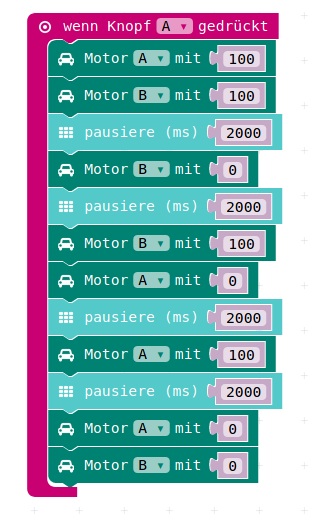
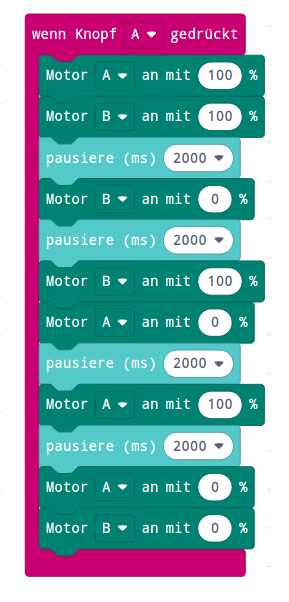
Content changes

diff --git a/_posts/2020-09-19-calliope_steuert_calliope.md b/_posts/2020-09-19-calliope_steuert_calliope.md
@@ -1,19 +1,19 @@
 ---
 layout: post
 title:  "Calliope steuert Calliope"
-date:   2020-07-19 17:08:49 +0200
-tags: calliope fernsteuerung funk
+date:   2020-09-19
+tags: calliope fernsteuerung funk beispielfahrzeug
 ---
 Der Prototyp mit Calliope soll nun mit einem anderen Calliope ferngesteuert werden.
-Hierfür nutzen wir das Funk-Modul, mit dem aus mehreren Calliopes (und auch MicroBits) eine Funkgruppe gebildet werden kann. Jeder in der Funkgruppe kann dann Daten (Text oder Zahlen) senden und empfangen.
+Hierfür nutzen wir das Funk-Modul, mit dem aus mehreren Calliopes (und auch Microbits) eine Funkgruppe gebildet werden kann. Jeder in der Funkgruppe kann dann Daten (Text oder Zahlen) senden und empfangen.
 
 Die Befehle findet man in Makecode unter "Funk", einige Befehle dann auch unter "Mehr".
 
 ## Komponenten und Aufbau
 
-Für den Robby-Prototyp haben nutzen wir zwei Calliope. Einer verbaut auf dem Fahrzeug als Empfänger für die Befehle, der weitere ist die Fernbedienung.
+Wir nutzen wir zwei Calliope. Einer ist auf dem Fahrzeug als Empfänger für die Befehl verbaut, der weitere dient als Fernbedienung.
 
-Komponenten und Aufbau des Fahrzeugs sind gleich wie im Beitrag [Erster Prototyp mit Calliope]({% post_url 2020-07-19-modell-a-calliope %})
+Komponenten und Aufbau des Fahrzeugs sind gleich wie bereits im Beitrag [Erster Prototyp mit Calliope]({% post_url 2020-09-18-beispielfahrzeug-calliope %}) beschrieben.
 
 
 ## Variante 1: Nutzung der Buttons
@@ -22,22 +22,22 @@ In der ersten Variante der Fernsteuerung soll das Fahrzeug
 * beim Drücken von A und B geradeaus fahren
 * beim Drücken von A links fahren
 * beim Drücken von B rechts fahren
-* beim Schütteln anhalten
+* beim Drehen des Displays nach unten anhalten
 
-Die Calliope-Fernbedienung nutzt folgendes Programm. Es übermittelt abhängig von der Eingabe Zahlencodes von 0 bis 2 über Funk an die Mitglieder der Funkgruppe 0:
+Die Calliope-Fernbedienung nutzt folgendes Programm. Es übermittelt abhängig von der Eingabe Zahlencodes von 0 bis 3 über Funk an die Mitglieder der Funkgruppe 0:
 
 
 ```javascript
-input.onGesture(Gesture.Shake, () => {
+input.onGesture(Gesture.ScreenDown, function () {
     radio.sendNumber(0)
 })
-input.onButtonPressed(Button.AB, () => {
-    radio.sendNumber(1)
-})
-input.onButtonPressed(Button.A, () => {
+input.onButtonPressed(Button.A, function () {
     radio.sendNumber(2)
 })
-input.onButtonPressed(Button.B, () => {
+input.onButtonPressed(Button.AB, function () {
+    radio.sendNumber(1)
+})
+input.onButtonPressed(Button.B, function () {
     radio.sendNumber(3)
 })
 radio.setGroup(0)
@@ -45,11 +45,31 @@ radio.setGroup(0)
 
 Der auf dem Fahrzeug verbaute Calliope nutzt folgendes Programm. Es reagiert auf die über Funk empfangene Daten und führt die entsprechenden Befehle zur Motorsteuerung aus.
 
+```javascript
+radio.onReceivedNumber(function (receivedNumber) {
+    if (receivedNumber == 0) {
+        motors.dualMotorPower(Motor.AB, 0)
+    }
+    if (receivedNumber == 1) {
+        motors.dualMotorPower(Motor.AB, 100)
+    }
+    if (receivedNumber == 2) {
+        motors.dualMotorPower(Motor.A, 100)
+        motors.dualMotorPower(Motor.B, 0)
+    }
+    if (receivedNumber == 3) {
+        motors.dualMotorPower(Motor.A, 0)
+        motors.dualMotorPower(Motor.B, 100)
+    }
+})
+radio.setGroup(0)
+```
+
 ## Variante 2: Nutzung des Lagesensors
 
-Der Calliope hat einen kombinierten Beschleunigungs- und Lagesensor.
+Der Calliope hat einen kombinierten Beschleunigungs- und Lagesensor. Diesen haben wir schon bei der Abfrage "wenn Display nach unten" benutzt. 
 
-Mit Makecode kann man von ihm folgende Werte erhalten:
+Mit Makecode kann man von ihm auch folgende Werte erhalten:
 * Beschleunigung(mg) x - input.acceleration(Dimension.X)
 * Beschleunigung(mg) y - input.acceleration(Dimension.Y)
 * Beschleunigung(mg) z - input.acceleration(Dimension.Z)
@@ -82,60 +102,43 @@ basic.forever(() => {
 
 Was sind das nun für Werte? Fangen wir mal mit der Rotation an.
 
-Der [Wikipedia-Artikel zu Roll-Nick-Gier-Winkel](https://de.wikipedia.org/wiki/Roll-Nick-Gier-Winkel ) zeigt anschaulich die Drehbewegungen um die drei Achsen. Übertragen auf den Calliope kann man desseb USB-Schnittstelle als "Spitze" des Fahrzeugs / Flugzeugs sehen.
+Der [Wikipedia-Artikel zu Roll-Nick-Gier-Winkel](https://de.wikipedia.org/wiki/Roll-Nick-Gier-Winkel ) zeigt anschaulich die Drehbewegungen um die drei Achsen. Übertragen auf den Calliope kann man dessen USB-Schnittstelle als "Spitze" des Fahrzeugs / Flugzeugs sehen.
 
-Mit dem Rotations-Befehl des Calliope erhalten wir Werte zum "Winkel/Nicken (Pitch)" und zum "Rollen (Roll)". 
+Mit dem Rotations-Befehl des Calliope erhalten wir vom Lagesensor die Werte zum "Winkel/Nicken (Pitch)" und zum "Rollen (Roll)". 
 
-Der Wert "Winkel/Nicken(Pitch)" verändert sich, wenn man die Spitze nach oben bzw. unten dreht. Blöderweise erhält man je nach genutzter Entwicklungsumgebung unterschiedliche Werte:
-
-Bei Makecode:
-* liegend (LED nach oben): pitch = 0°
-* stehend (USB nach oben): pitch = 90°
-* liegend (LED nach unten) pitch = 0°
-* auf dem Kopf (USB nach unten) pitch = -90°
-Bei Makecode - neue beta:
+Der Wert "Winkel/Nicken(Pitch)" verändert sich, wenn man die Spitze nach oben bzw. unten dreht:
 * liegend (LED nach oben): pitch = 0°
 * stehend (USB nach oben): pitch = 90°
 * liegend (LED nach unten) pitch =  180°/-180°
 * auf dem Kopf (USB nach unten) pitch = -90°
 
 Der Wert "Rollen (Roll)" verändert sich, wenn man den Callipe nach links bzw. nach rechts neigt:
-Bei Makecode:
-* liegend (LED nach oben): roll = 180°/-180°
-* nach links (PIN 0 unten): roll = -90°
-* liegend (LED nach unten): roll = 0°
-* nach rechts (PIN 3 unten): roll = 90°
-
-Bei Makecode - neue Beta
 * liegend (LED nach oben): roll = 0°
 * nach links (PIN 0 unten): roll = -90°
 * liegend (LED nach unten): roll = 180°/-180°
 * nach rechts (PIN 3 unten): roll = 90°
 
-Bei den Beschleunigungswerten wird die Beschleunigung entlang der Achsen angegeben. Dabei verläuft
+Bei den Werten des Beschleunigungssensors wird die Beschleunigung entlang der Achsen angegeben. Dabei verläuft
 * die x-Achse von links nach rechts, also auf einer gedachten Verbindung von Pin 0 und Pin3
 * die y-Achse von vorne nach hinten, also von der USB-Buchse nach unten
 * die z-Achse vertikal zum Calliope
 
-Die Beschleunigung wird in milli-g, also in Tausendstel der Erdanziehung gemessen. In den gemessenen Werten ist die Erdanziehung enthalten.
+Die Beschleunigung wird in milli-g, also in Tausendstel der Erdanziehung gemessen. In den gemessenen Werten ist die Erdanziehung enthalten. 
 
 Ein flach liegender und nicht bewegter Calliope erzeugt die Werte x=0, y=0, z=-1000. Liegt er mit den LEDs nach unten sind die Werte x=0, y=0, z=1000. Mit dem Beschleunigungssensor sieht man im Ruhezustand (durch die Erdanziehung) ob der Calliope geneigt ist (Roll oder Pitch). Einen Roll sieht man am sich ändernden x-Wert, einen Pitch am sich ändernden y-Wert.
 
 Ist der Calliope nicht geneigt, geben x und y die lineare Beschleunigung wieder.
 
-Für die Fernbedienung nutzen wir den Lagesensor. Bei einer Neigung nach links soll das Fahrzeug nach links, bei einer Neigung nach rechts soll das Fahrzeug nach rechts fahren. Bei einer Neigung nach vorne soll der Calliope schneller, bei einer Neigung nach hinten langsamer fahren.
+Für die Fernbedienung nutzen wir den Lagesensor. Bei einer Neigung nach links soll das Fahrzeug nach links, bei einer Neigung nach rechts soll das Fahrzeug nach rechts fahren. Bei einer Neigung nach vorne soll der Calliope schneller, bei einer Neigung nach hinten langsamer fahren. Um diesen Effekt zu erzielen, schauen wir uns die Wertebereiche an:
 
-Um diesen Effekt zu erzielen, schauen wir uns die Wertebereiche an (Makecode beta)
 Als maximale Neigungwinkel nach links und rechts nehmen wir jeweils 90°, damit ergeben sich folgende Werte für Roll:
+* Linksfahren:    Roll von 0° geradeaus bis -90° (stark links)
+* Rechtsfahren:   Roll von 0° geradeaus bis 90° (stark rechts)
 
-Linksfahren:    Roll von 0° geradeaus bis -90° (stark links)
-Rechtsfahren:   Roll von 0° geradeaus bis 90° (stark rechts)
+Die Geschwindigkeit soll 0 sein wenn der Calliope "steht" und maximal wenn er liegt. Es sollen also folgende Werte für Pitch vorliegen:
+* Pitch von 90° = 50% Geschwindigkeit, Pitch von 0° = 100% Geschwindigkeit
 
-Die Geschwindigkeit soll 0 sein wenn der Calliope "steht" und maximal wenn er liegt. Es sollen also folgende Werte für Pitch vorliegen. 
-
-Pitch von 90° = 0% Geschwindigkeit, Pitch von 0° = 100% Geschwindigkeit
-
-((Zudem sollte der Calliope mit den LEDs nach oben gehalten werden, was mit einem Beschleunigungswert von z > 0 sichergestellt werden kann.))
+Hier berücksichtigen wir zudem, dass bei unserem Modell das Fahrzeug erst bei einer Motorgeschwindigkeit von 55% losfährt.
 
 Vor der Übertragung bilden wir die Roll-Werte für links und rechts auf eine verständlichere Skala ab:
 stark links = -100
@@ -143,7 +146,7 @@ geradeaus = 0
 stark rechts = 100
 
 Gleiches machen wir für die Geschwindigkeit:
-0% = 0
+50% = 0
 100% = 100
 
 Hier das Programm für den Sender-Calliope (Fernbedienung):
@@ -209,16 +212,15 @@ radio.onReceivedValue(function (name, value) {
     }
     serial.writeValue("geschwindigkeit", geschwindigkeit)
     if (richtung < 0) {
-        motors.dualMotorPower(Motor.A, geschwindigkeit - Math.abs(richtung))
-        motors.dualMotorPower(Motor.B, geschwindigkeit)
-    } else {
         motors.dualMotorPower(Motor.A, geschwindigkeit)
         motors.dualMotorPower(Motor.B, geschwindigkeit - Math.abs(richtung))
+    } else {
+        motors.dualMotorPower(Motor.A, geschwindigkeit - Math.abs(richtung))
+        motors.dualMotorPower(Motor.B, geschwindigkeit)
     }
 })
 let geschwindigkeit = 0
 let richtung = 0
 radio.setGroup(10)
-motors.dualMotorPower(Motor.A, 0)
-motors.dualMotorPower(Motor.B, 0)
+motors.dualMotorPower(Motor.AB, 0)
 ```

diff --git a/_posts/2020-09-18-beispielfahrzeug-calliope.md b/_posts/2020-09-18-beispielfahrzeug-calliope.md
@@ -2,10 +2,10 @@
 layout: post
 title:  "Erster Prototyp mit Calliope"
 date:   2020-09-18
-tags: calliope Modell-A
+tags: calliope Beispielfahrzeug
 ---
 
-((TODO Foto))
+![Beispielfahrzeug zwei Antriebsräder und Stützrad mit Callipe](/images/foto_modell_a_calliope.jpg)
 
 Für den ersten Prototyp nehme ich den Calliope und dessen integrierten Motortreiber. Das Fahrzeug hat zwei angetriebene Räder und ein Stützrad. Aufgrund der Einschränkungen des Calliope-Motortreibers gibt es leider keinen Rückwärtsgang.
 
@@ -55,6 +55,8 @@ input.onButtonPressed(Button.A, () => {
     motors.dualMotorPower(Motor.B, 0)
 })
 ```
+
+Anmerkung: Künftig werde ich hier nur noch den Javascript-Code zeigen. Wenn man diesen nach Makecode in die Ansicht "Javascript" kopiert kann man sich anschließend die grafische Darstellung anschauen, indem man zu "Blöcke" wechselt.
 
 ### Nutzung von Funktionen
 
@@ -124,9 +126,9 @@ Im obigen Beispiel wurde die Geschwindigkeit der Motoren immer auf 100% gesetzt.
 
 Zu beachten ist, dass sich die Motoren erst ab einem bestimmten Wert drehen, und dass erst ab einem noch höheren Wert das Fahrzeug aus dem Stand heraus gestartet werden kann.
 
-Welche Werte das sind, hängt vom verwendeten Motor (Drehmoment, Drehzahl), von ggf. verwendeten Zahnrädernm, von den verwendeten Rädern und auch von den Eigenschaften des Untergrunds ab.
+Welche Werte das sind, hängt vom verwendeten Motor (Drehmoment, Drehzahl), von ggf. verwendeten Zahnrädern, von den verwendeten Rädern und auch von den Eigenschaften des Untergrunds sowie von der am Motor anliegenden Spannung ab.
 
-Man kann die Werte durch Tests ermitteln, indem man die Geschwindigkeit in Stufen von 0 bis 100 erhöht, bzw. reduziert.
+Man kann die Werte durch Tests ermitteln, indem man die Geschwindigkeit in Stufen von 0 bis 100 erhöht.
 
 ```javascript
 input.onButtonPressed(Button.A, function () {
@@ -235,7 +237,7 @@ input.onButtonPressed(Button.B, function () {
 
 })
 ```
-Die Funktionen werden in diesem Beispielprogramm genutzt um beim Drücken von A ein Quadrat und bei Drücken von B ein gleichseitiges Dreieck abzufahren.
+Die Funktionen werden in diesem Beispielprogramm genutzt, um beim Drücken von A ein Quadrat und bei Drücken von B ein gleichseitiges Dreieck abzufahren.
 
 Nachteil dieser Vorgehensweise ist, dass sich die Motoren bei sinkender Batteriespannung langsamer drehen und damit die initiale Messung nicht mehr gültig ist. 
 
